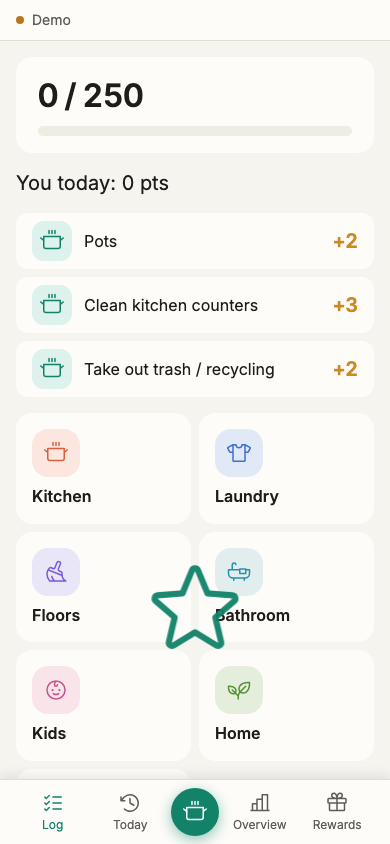
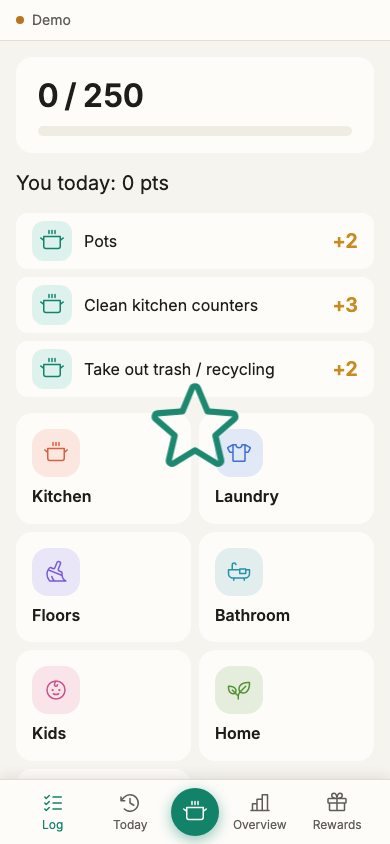
design(log): center the celebration on the screen and play it for 2700ms (#59) (#60)
## What

The celebration overlay is centered vertically and horizontally on the
screen instead of sitting just above the toast, and each moment plays
for 2700ms instead of 900ms. The keyframe percentages are unchanged, so
every moment keeps its shape three times slower. The duration lives in
one exported constant, the CSS token and the screenshot script's defused
timer, and the component test reads the constant instead of a literal.

## Why

Closes #59.

## Tests

- `CELEBRATION_DURATION_MS > is 2700ms, three times the original moment
(issue #59), and must match --dur-celebration` (new)
- `Celebration > renders the chosen icon and unmounts it after the
animation ends` now advances the fake clock by the constant.

Full unit suite: 559 passing. Lint and typecheck clean.

## Screenshots light / dark

Regenerated at the midpoint (1350ms) of the 2700ms moment:

- `docs/screenshots/53-celebration-star-catch-light.png`
- `docs/screenshots/53-celebration-star-catch-dark.png`
- `docs/screenshots/53-celebration-sparkle-burst-light.png`
- `docs/screenshots/53-celebration-sparkle-burst-dark.png`

## UI pre-flight

Unchanged from PR #56 and #58. Still pointer-events none and
aria-hidden, still skipped under reduced motion, nothing idle, no new
colors. The overlay covers the viewport but intercepts nothing.

## Risk

None to data or schemas. One component's CSS, one constant, one token.

🤖 Generated with [Claude Code](https://claude.com/claude-code)
[…]

Changed region(s): [[0.4, 0.6469, 0.6154, 0.7701], [0.4, 0.4313, 0.6154, 0.5545]]

diff --git a/src/components/Celebration.vue b/src/components/Celebration.vue
@@ -1,14 +1,14 @@
 <script setup lang="ts">
 /**
  * Celebration overlay (issue #53, DESIGN.md §4 motion, §8 pre-flight):
- * mounted once in `App.vue`, fixed and pointer-events-none, near where
- * the toast appears. `useCelebration()` is the shared composable state
+ * mounted once in `App.vue`, fixed and pointer-events-none, centered on
+ * the screen (issue #59; it started out just above the toast). `useCelebration()` is the shared composable state
  * that `LogScreen` and `CategoryScreen` write to right next to their
  * existing `show()` toast call; this component only reads it, renders one
- * of ten Phosphor-icon moments for about 900ms, then removes it from the
+ * of ten Phosphor-icon moments for 2700ms, then removes it from the
  * DOM. It never blocks or delays the toast, the haptic tick, or Undo --
  * there is nothing here to await. Every moment ends with a short fade so
- * the removal at 900ms is never a hard cut.
+ * the removal at the end is never a hard cut.
  *
  * Every moment justified in one sentence:
  *   1. Smile pop (PhSmiley) - the plainest "nice one", no words needed.
@@ -101,11 +101,10 @@ const { celebration, reducedMotion } = useCelebrationOverlay()
 <style scoped>
 .celebration {
   position: fixed;
-  right: var(--safe-right);
-  bottom: calc(var(--touch) + var(--gutter) * 3 + var(--safe-bottom) + 88px);
-  left: var(--safe-left);
+  inset: 0;
   z-index: 21;
   display: flex;
+  align-items: center;
   justify-content: center;
   pointer-events: none;
 }

diff --git a/src/composables/useCelebration.ts b/src/composables/useCelebration.ts
@@ -85,8 +85,9 @@ export function useCelebration(): CelebrationState {
   return shared
 }
 
-/** Issue #53's one-shot removal timer, ~900ms after a trigger. */
-const CELEBRATION_DURATION_MS = 900
+/** Issue #53's one-shot removal timer after a trigger; 2700ms since issue #59, three times the original.
+ * Must match `--dur-celebration` in tokens.css and the defused delay in scripts/screenshots.mjs. */
+export const CELEBRATION_DURATION_MS = 2700
 
 function prefersReducedMotion(): boolean {
   return typeof window !== 'undefined' && window.matchMedia?.('(prefers-reduced-motion: reduce)').matches === true
@@ -100,7 +101,7 @@ function prefersReducedMotion(): boolean {
  * `celebration` ref and, for each new value: under
  * `prefers-reduced-motion: reduce`, clears it right away so the moment is
  * skipped entirely rather than fading (see `Celebration.vue`'s header
- * comment for why); otherwise starts the ~900ms removal timer.
+ * comment for why); otherwise starts the removal timer (`CELEBRATION_DURATION_MS`).
  */
 export function useCelebrationOverlay(): {
   celebration: Ref<CelebrationView | undefined>

diff --git a/tests/composables/useCelebration.test.ts b/tests/composables/useCelebration.test.ts
@@ -1,5 +1,11 @@
 import { beforeEach, describe, expect, it } from 'vitest'
-import { CELEBRATION_IDS, createCelebrationState, pickCelebration, useCelebration } from '@/composables/useCelebration'
+import {
+  CELEBRATION_DURATION_MS,
+  CELEBRATION_IDS,
+  createCelebrationState,
+  pickCelebration,
+  useCelebration,
+} from '@/composables/useCelebration'
 
 describe('pickCelebration', () => {
   it('returns one of the ten ids', () => {
@@ -58,5 +64,11 @@ describe('useCelebration', () => {
 
   it('useCelebration() always returns the same shared instance, so App.vue and any screen see one state', () => {
     expect(useCelebration()).toBe(useCelebration())
+  })
+})
+
+describe('CELEBRATION_DURATION_MS', () => {
+  it('is 2700ms, three times the original moment (issue #59), and must match --dur-celebration', () => {
+    expect(CELEBRATION_DURATION_MS).toBe(2700)
   })
 })

diff --git a/tests/components/Celebration.test.ts b/tests/components/Celebration.test.ts
@@ -2,7 +2,7 @@
 import { afterEach, beforeEach, describe, expect, it, vi } from 'vitest'
 import { mount } from '@vue/test-utils'
 import Celebration from '@/components/Celebration.vue'
-import { useCelebration } from '@/composables/useCelebration'
+import { CELEBRATION_DURATION_MS, useCelebration } from '@/composables/useCelebration'
 
 const { celebration, trigger, triggerExact, clear } = useCelebration()
 
@@ -23,7 +23,7 @@ describe('Celebration', () => {
     const wrapper = mount(Celebration)
     expect(wrapper.find(`[data-test="celebration"].celebration__stage--${id}`).exists()).toBe(true)
 
-    vi.advanceTimersByTime(900)
+    vi.advanceTimersByTime(CELEBRATION_DURATION_MS)
     await wrapper.vm.$nextTick()
 
     expect(wrapper.find('[data-test="celebration"]').exists()).toBe(false)

diff --git a/src/styles/tokens.css b/src/styles/tokens.css
@@ -45,11 +45,11 @@
   --dur-press: 120ms;
   --dur-sheet: 200ms;
   --dur-count: 300ms;
-  /* Issue #53: one shot per log, ~900ms, then removed from the DOM. Not
+  /* Issue #53: one shot per log, 2700ms since issue #59, then removed from the DOM. Not
      zeroed by the reduced-motion block below -- under reduced motion the
      celebration is skipped entirely instead (Celebration.vue), so this
      duration is only ever read when it is safe to animate. */
-  --dur-celebration: 900ms;
+  --dur-celebration: 2700ms;
 
   /* Category tints for tile backgrounds, derived from the hue above. */
   --cat-kitchen-soft: color-mix(in oklab, var(--cat-kitchen) 14%, var(--surface));
